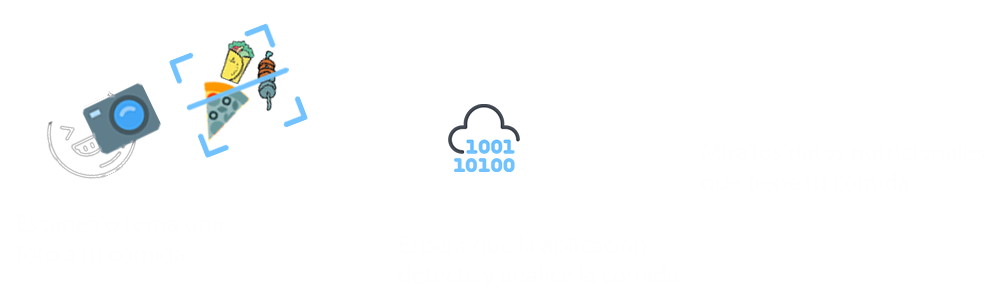
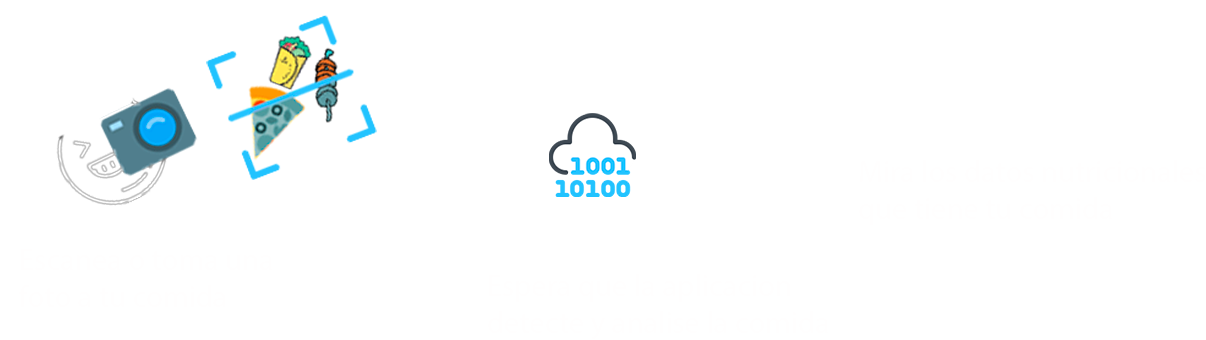
Efectos para fondo del login y agrego ancla para el boton inferior
Se agranda tambien la infografia

Changed region(s): [[0.0618, 0.03, 0.3091, 0.6], [0.4327, 0.33, 0.5254, 0.6]]

diff --git a/src/app/home/home.component.css b/src/app/home/home.component.css
@@ -47,7 +47,7 @@
 }
 
 .fondo4{
-  background: url(../../assets/img/imagenComidaFondo2.jpg) no-repeat center;
+  background: url(../../assets/img/imagenComidaFondo2.png) no-repeat center;
   background-size: cover; /*Adaptacion al contenedor 100% de la pantalla */
   min-height: 100vh; /*Usar todo el alto de la pantalla*/
   height: 300px;
@@ -67,5 +67,5 @@
 
 #imagenFondo1 {
   margin-top: 200px;
-  margin-left: 200px;
+  margin-left: 80px;
 }

diff --git a/src/app/home/home.component.html b/src/app/home/home.component.html
@@ -114,7 +114,8 @@
         <!-- Default form login -->
         <form class="text-center p-5">
 
-            <p class="h4 mb-4">Inicia Sesion</p>
+            
+          <a name='login'><p class="h4 mb-4">Inicia Sesion</p></a>
 
             <!-- Email -->
             <input type="email" id="defaultLoginFormEmail" class="form-control mb-4" placeholder="E-mail">

diff --git a/src/app/app.component.html b/src/app/app.component.html
@@ -3,5 +3,5 @@
 <app-home></app-home>
 <app-intro></app-intro>
 <!--Icono de la esquina para ir al Login-->
-<a href=''> <img src='assets/img/loginAccount.png' id="loginIcon"/></a>
+<a href='#login'> <img src='assets/img/loginAccount.png' id="loginIcon"/></a>
 <app-footer></app-footer>

diff --git a/src/app/app.component.css b/src/app/app.component.css
@@ -6,3 +6,9 @@
     margin-right: 20px;
     margin-bottom: 20px;
 }
+
+#loginIcon:hover {
+    -webkit-transform: scale(1.2);
+    -ms-transform: scale(1.2);
+    transform: scale(1.2);
+}
